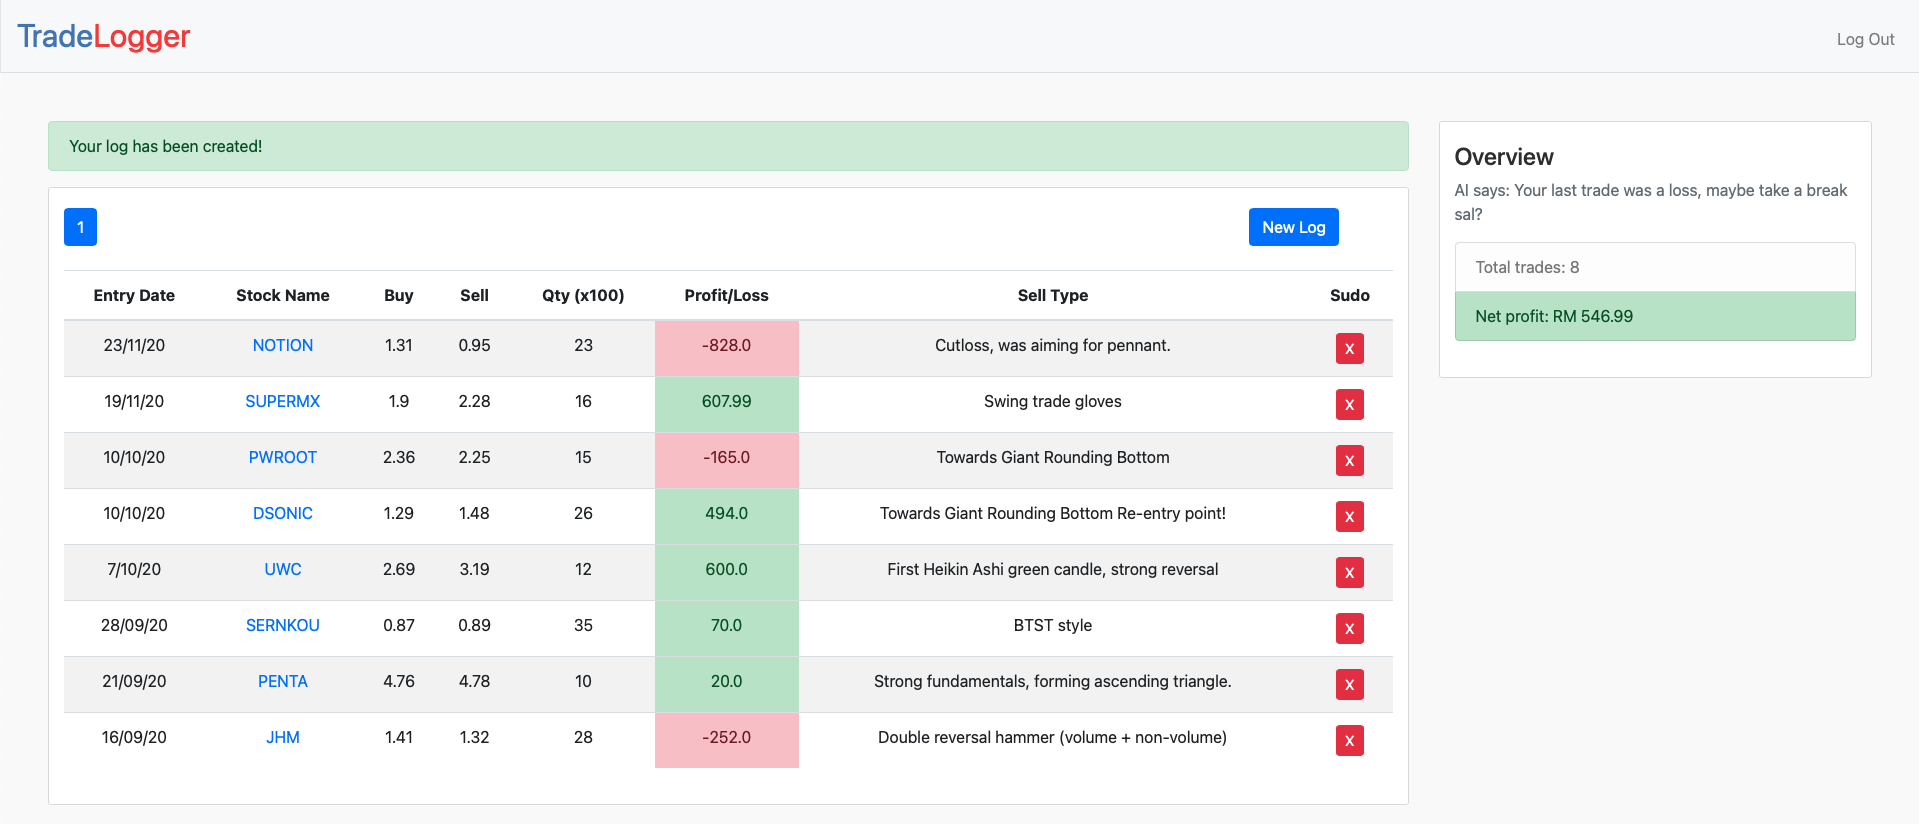
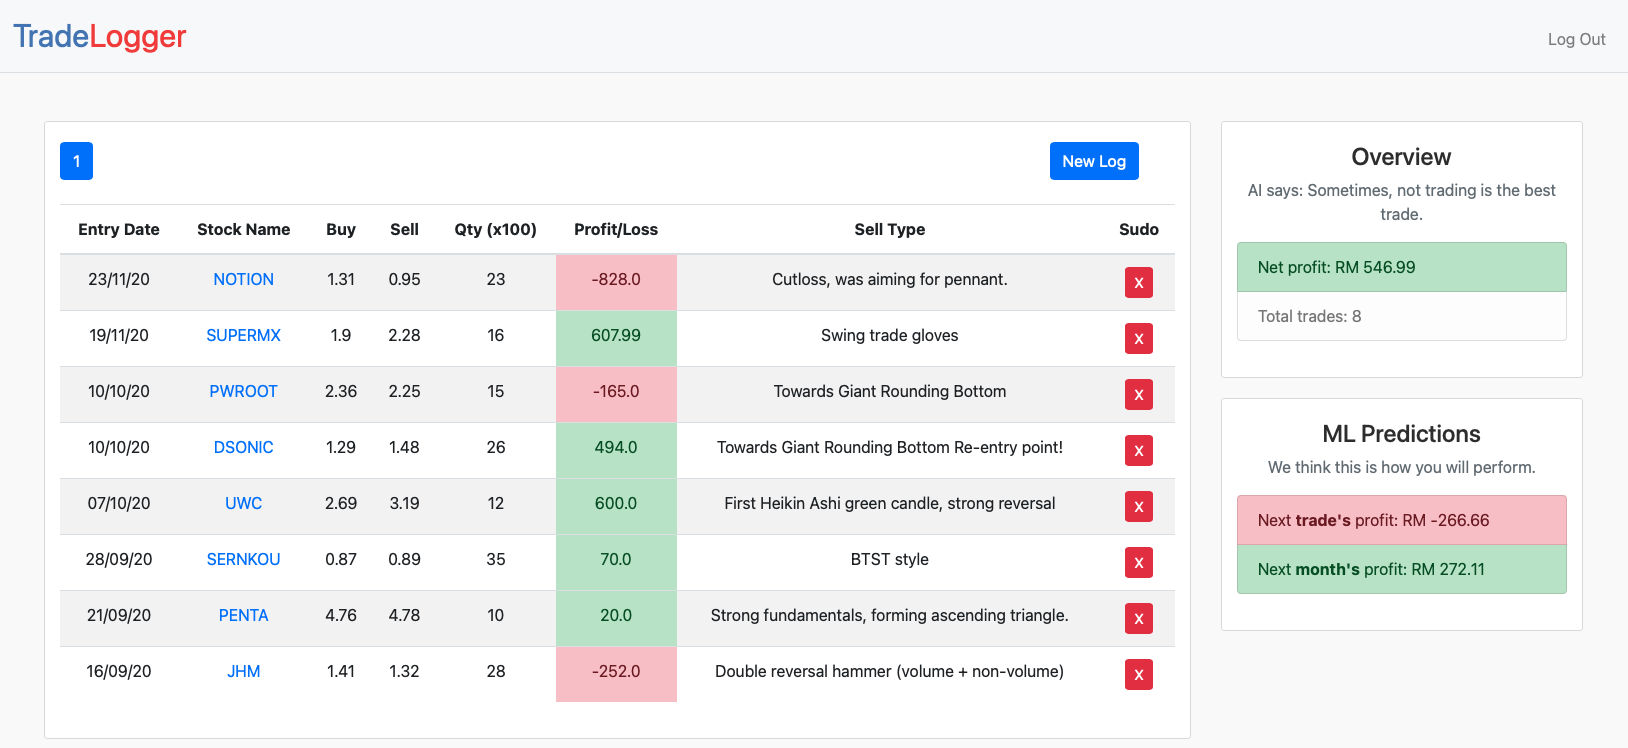
DOCS: Updated readme

diff --git a/README.md b/README.md
@@ -1,4 +1,8 @@
 # tradelogger
-TradeLogger: A web app to log your trades.
+TradeLogger, shiny ML-powered trade logging web app. 
+
+### Powered by
+- Back-end: Flask
+- Machine learning: scikit-learn
 
 ![Screenshot](./docs/main.png)
